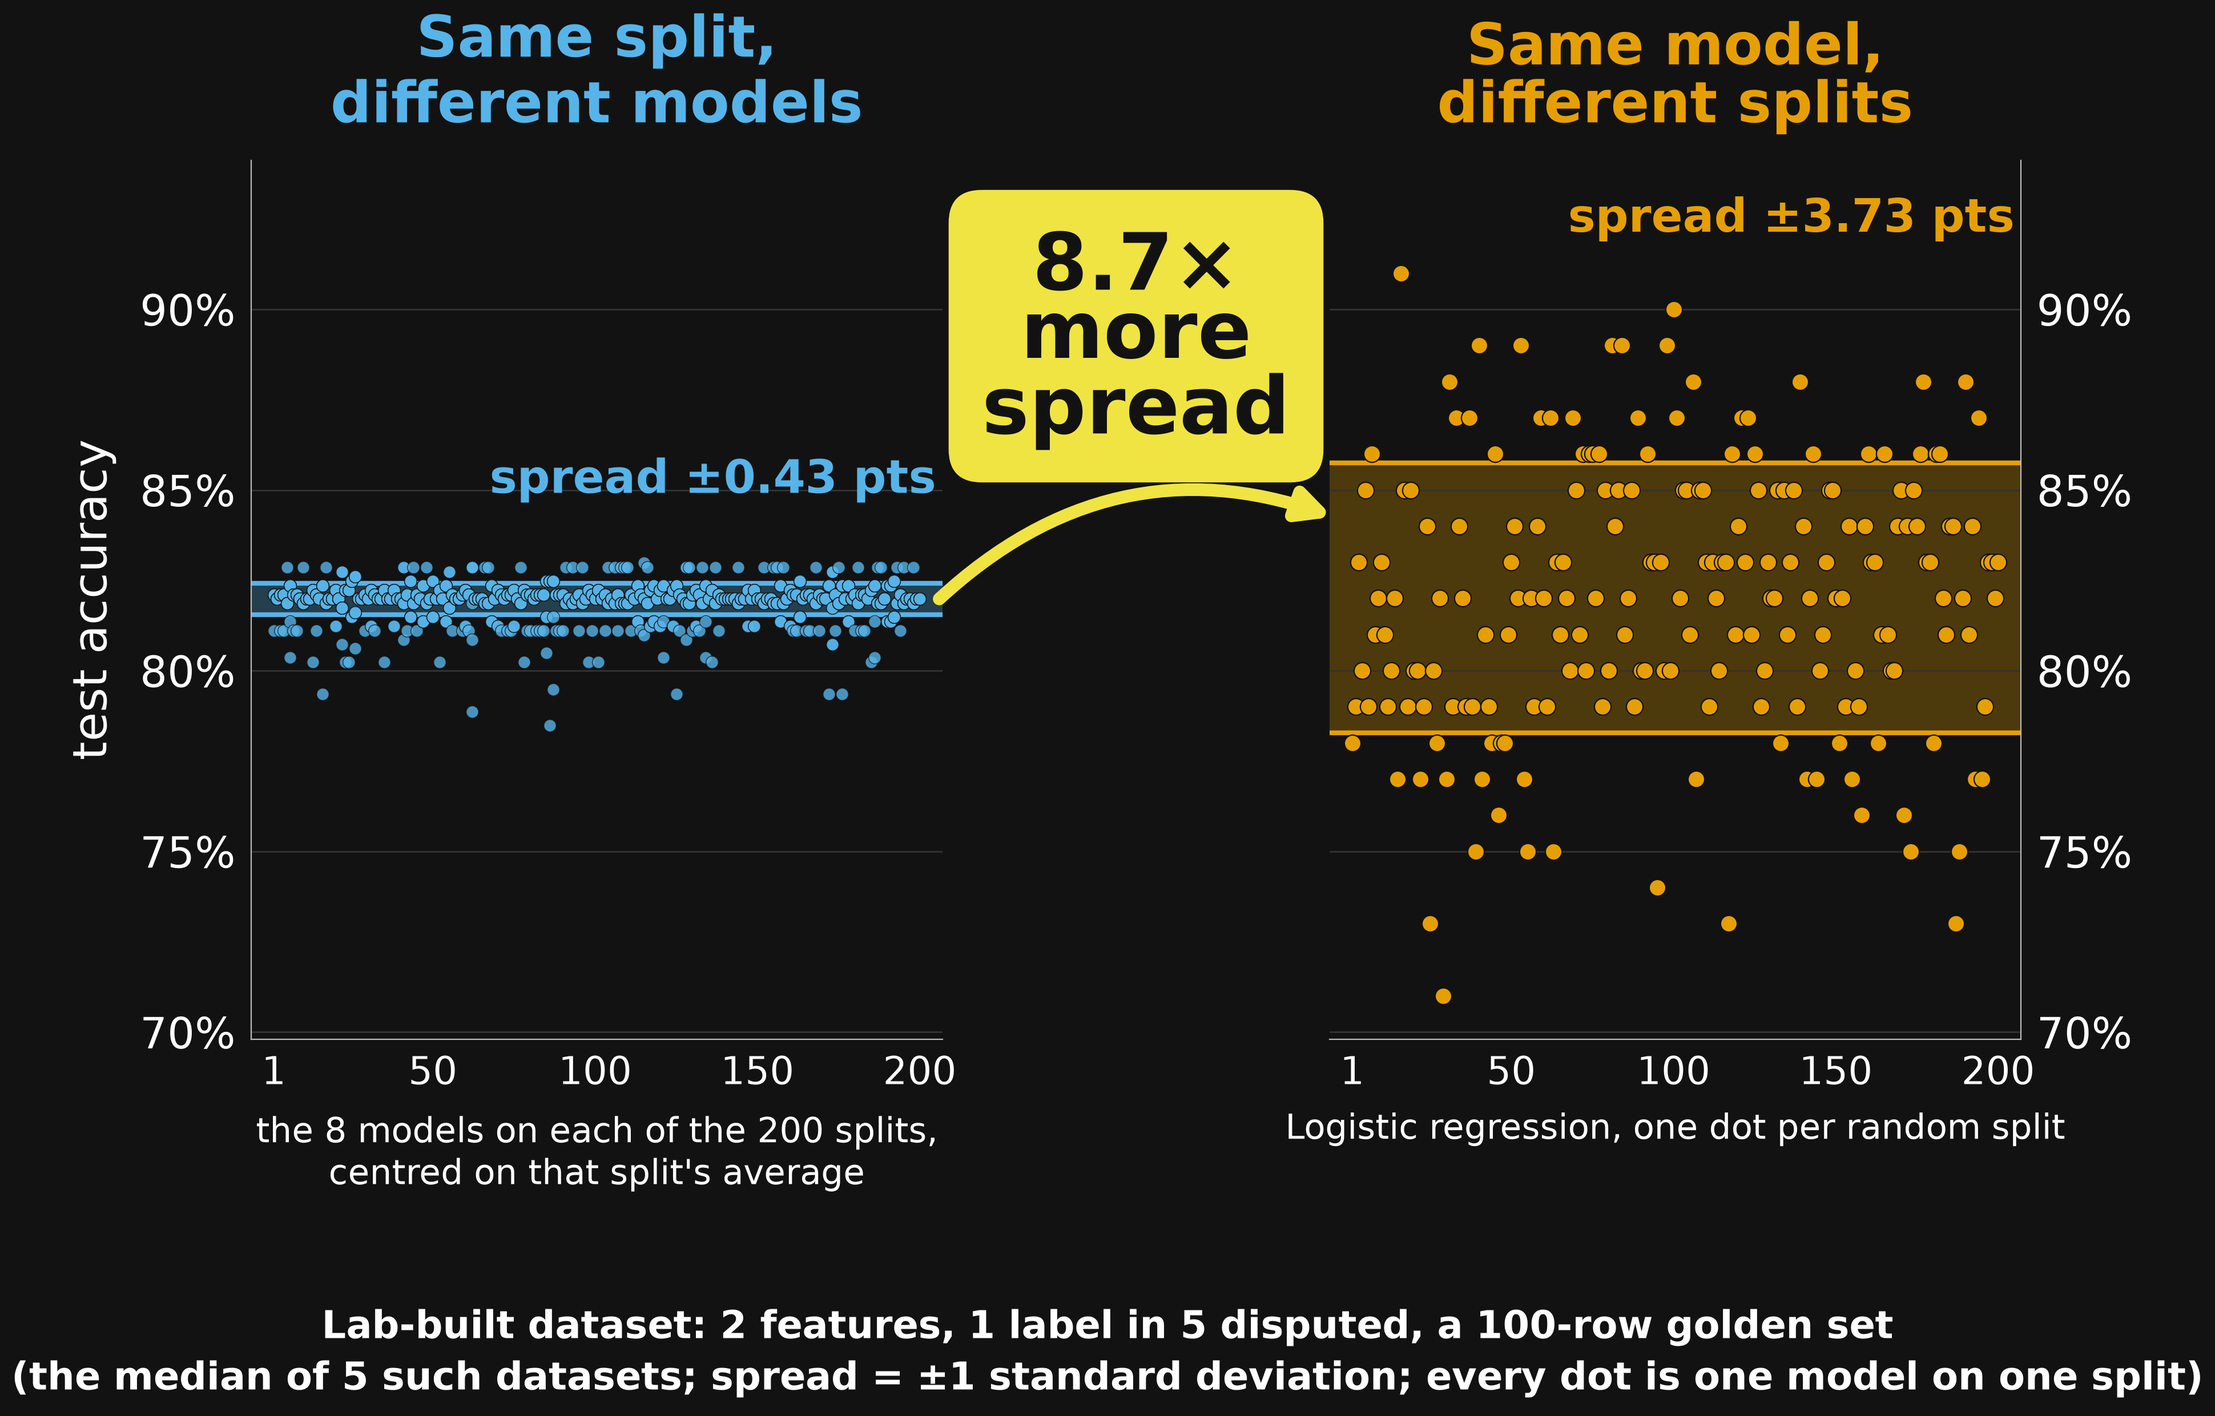
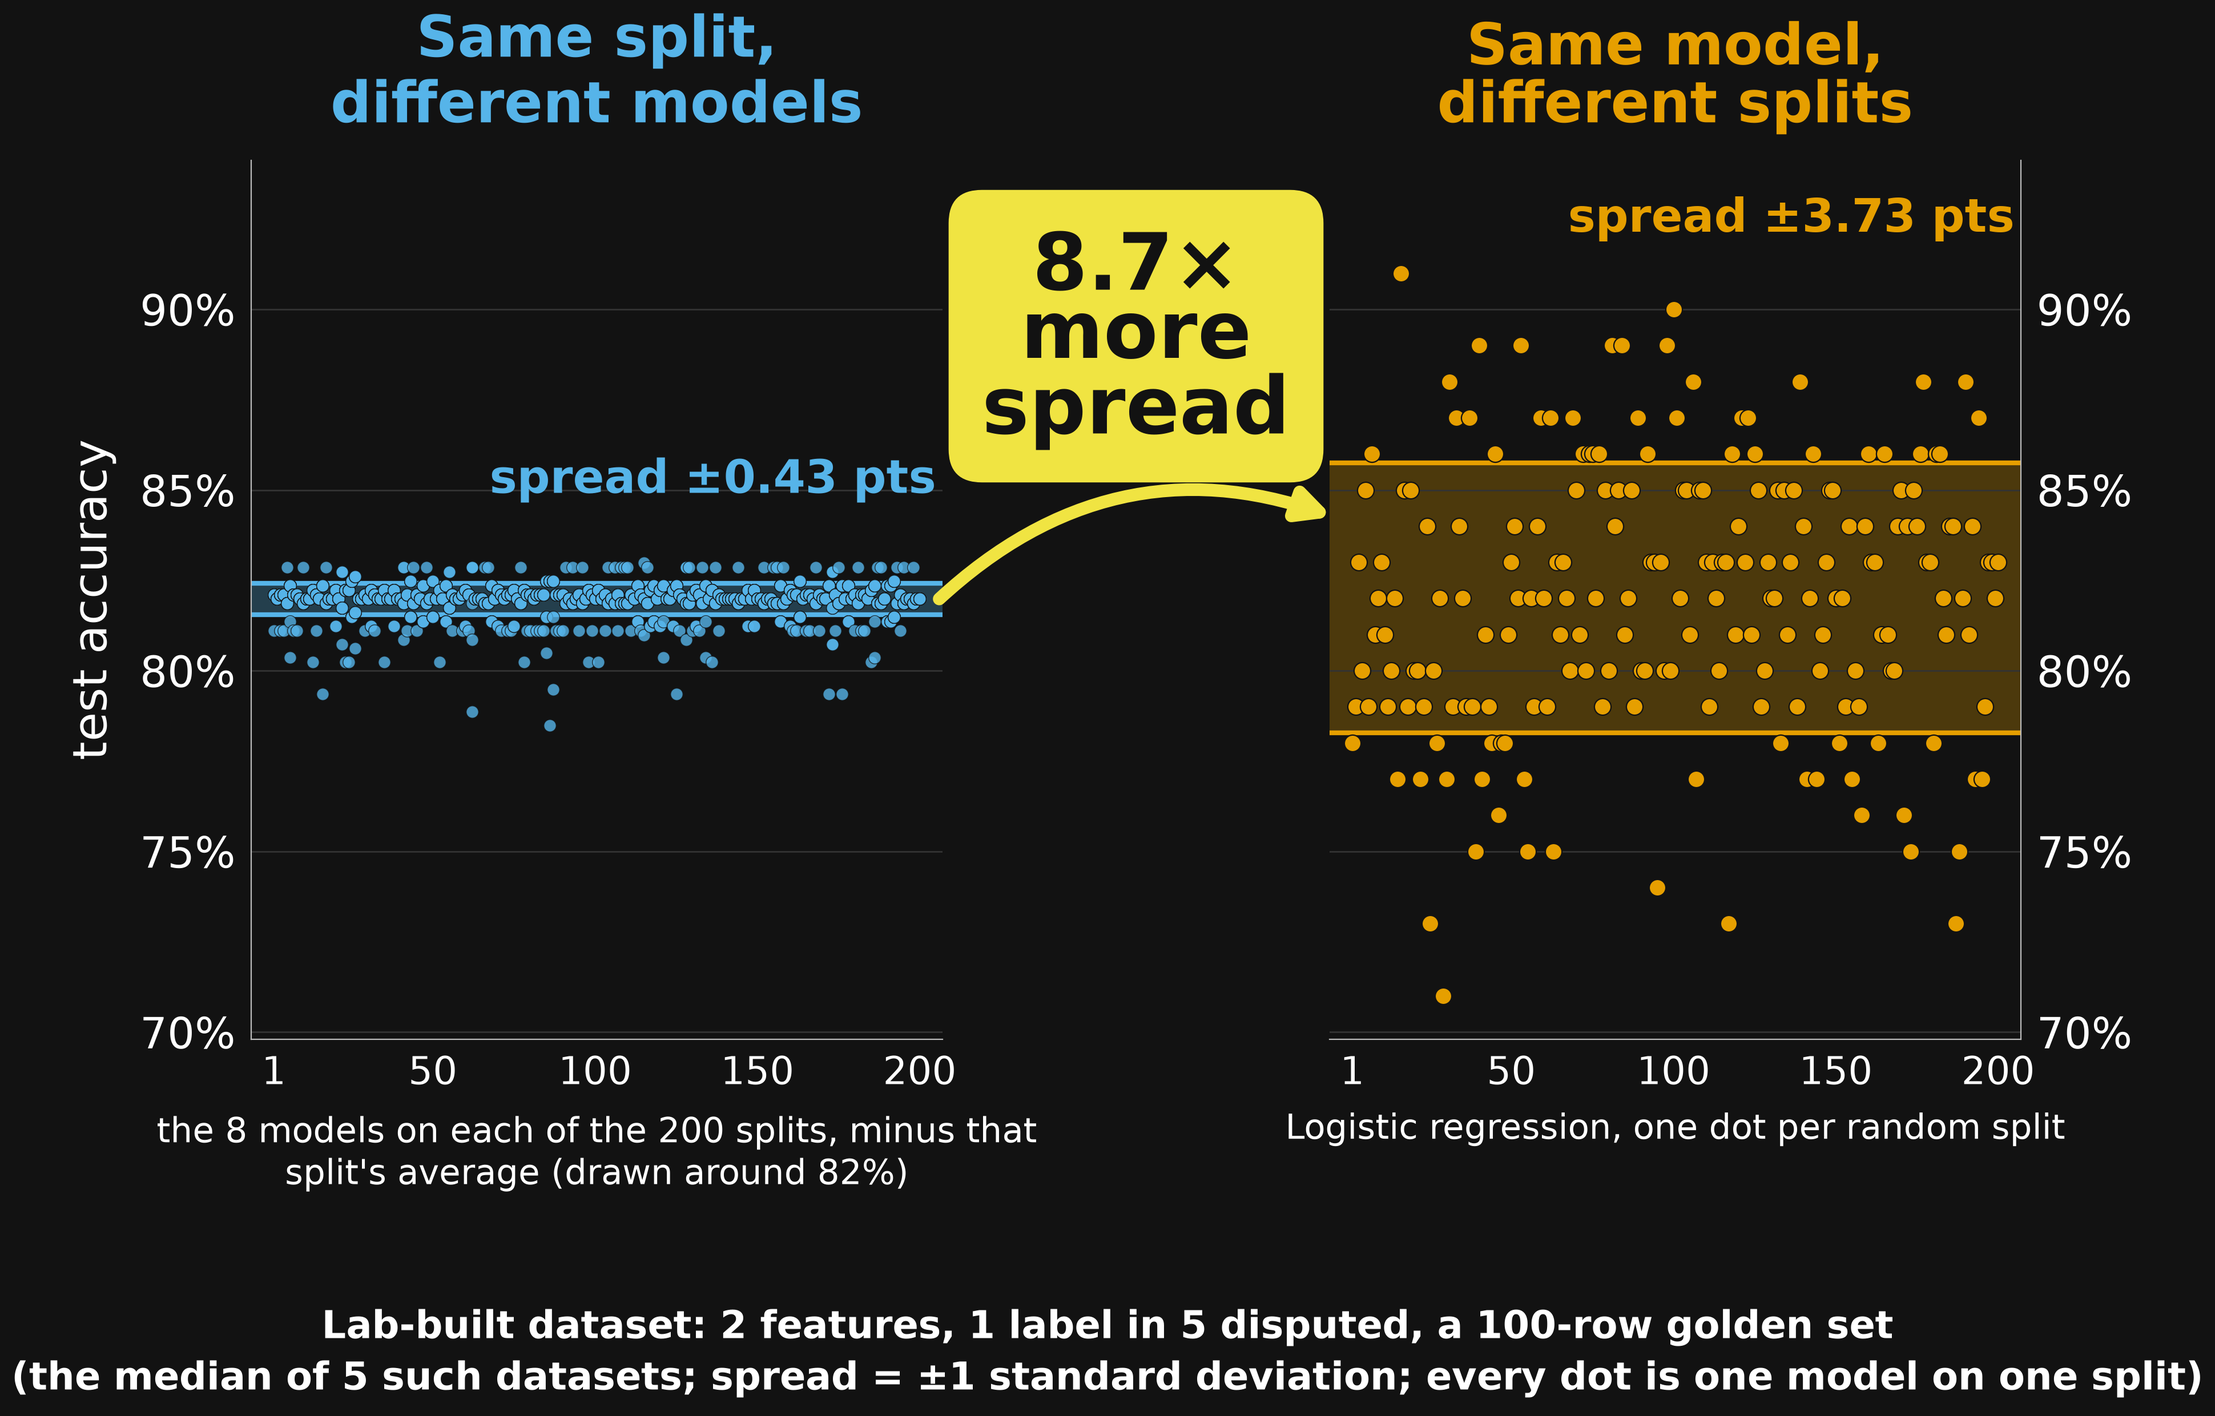
Report the strict, like-for-like wobble ratio everywhere
- e9_views section 6: the strict ratio (models compared on the same split)
  next to the registered ratio R, for the designs, the real data and the dials
- Dials figure plots the strict ratio; results/e8_dials.txt keeps R
- e1_minimal prints the strict ratio (0.86 on the opening subsample)
- e10: the rule-of-thumb verdict reads "too close to call", not "tie"
- Figure polish: e7a tie label in the tie colour, larger e2 legends with
  headroom, clearer hero axis label; no overlapping text
- PREREGISTRATION note on the switch (registered R unchanged and still printed)

Changed region(s): [[0.0624, 0.7759, 0.4678, 0.838]]

diff --git a/experiments/e8_tailored.py b/experiments/e8_tailored.py
@@ -212,6 +212,12 @@ def extras(cells, n_data, split_seeds):
     print(f"Falsifier (largest median R < 5): {'TRIGGERED' if top < 5 else 'not triggered'}")
 
 
+def strict_R(acc):
+    """Like-for-like wobble ratio (descriptive, added 2026-11-06): one model's swing across splits (mean std, as in R)
+    over how far apart the models land on the SAME split (root-mean-square over splits of the std across models)."""
+    return acc.std(axis=0, ddof=1).mean() / np.sqrt(np.mean(acc.var(axis=1, ddof=1)))
+
+
 def dial_R(dcells, i, nd):
     return np.median([seeds_vs_zoo(dcells[i, j][0])[2] for j in range(nd)])
 
@@ -358,7 +364,7 @@ def plot_hero_same_split(acc, path, design=""):
         ax.set_xlim(-6, n + 7)
     axl.scatter(np.repeat(xs, a.shape[1]), centred.ravel(), s=60, color=sky, edgecolor=BG, linewidth=0.5,
                 alpha=0.8, zorder=4)
-    axl.set_xlabel(f"the 8 models on each of the {n} splits,\ncentred on that split's average", fontsize=22, labelpad=12)
+    axl.set_xlabel(f"the 8 models on each of the {n} splits, minus that\nsplit's average (drawn around {a.mean():.0f}%)", fontsize=22, labelpad=12)
     axr.scatter(xs, runs, s=110, color=orange, edgecolor=BG, linewidth=0.8, zorder=4)
     axr.set_xlabel(f"{HERO_MODEL}, one dot per random split", fontsize=22, labelpad=12)
     axr.yaxis.tick_right()
@@ -398,9 +404,11 @@ def plot_dials(dcells, nd, path):
     from experiments.common import OKABE_ITO, dark_style
     plt = dark_style()
     fig, axes = plt.subplots(3, 1, figsize=(12, 19), sharey=True, gridspec_kw={"hspace": 0.68})  # one column: readable on a phone
-    R = lambda i: dial_R(dcells, i, nd)  # noqa: E731
-    span = lambda idx: ([min(seeds_vs_zoo(dcells[i, j][0])[2] for j in range(nd)) for i in idx],  # noqa: E731
-                        [max(seeds_vs_zoo(dcells[i, j][0])[2] for j in range(nd)) for i in idx])
+    # Since 2026-11-06 the figure shows the strict, like-for-like ratio (models compared on the same split);
+    # the registered ratio on averages (dial_R) is still printed in results/e8_dials.txt.
+    R = lambda i: np.median([strict_R(dcells[i, j][0]) for j in range(nd)])  # noqa: E731
+    span = lambda idx: ([min(strict_R(dcells[i, j][0]) for j in range(nd)) for i in idx],  # noqa: E731
+                        [max(strict_R(dcells[i, j][0]) for j in range(nd)) for i in idx])
     sky, verm = OKABE_ITO["sky"], OKABE_ITO["vermillion"]
     style = dict(lw=4.5, ms=14, marker="o")
     ax = axes[0]
@@ -454,7 +462,7 @@ def plot_dials(dcells, nd, path):
                 fontsize=22, fontweight="bold")
         ax.text(0.02, 0.05, "model wins (below 1)", transform=ax.transAxes, va="bottom", fontsize=22,
                 fontweight="bold")
-    fig.text(0.5, -0.012, "Wobble ratio = how far one model swings across splits ÷ how far apart the models' averages are.\n"
+    fig.text(0.5, -0.012, "Wobble ratio = how far one model swings across splits ÷ how far apart the models land on the same split.\n"
              "Lines: median of 3 datasets per setting; bands: their min to max.", ha="center", va="top", fontsize=20)
     os.makedirs(os.path.dirname(path) or ".", exist_ok=True)
     fig.savefig(path, dpi=200, bbox_inches="tight")

diff --git a/experiments/e9_views.py b/experiments/e9_views.py
@@ -275,6 +275,30 @@ def run(out, img=None, quick=False):
             all_vals.append(m.ravel())
         total = np.var(np.concatenate(all_vals))
         print(f"share of all the movement that sits inside one (model, split) cell, i.e. the same model on the same split with a different seed: {np.mean(cells) / total:.1%}")
+
+        print("\n== 6. The strict (like-for-like) wobble ratio everywhere: one model's swing across splits / how far apart the models land on the SAME split ==")
+        print("(The registered ratio R divides by the spread of the models' 200-split averages instead; it is always at least as large. Both are listed.)")
+        strict = lambda m: m.std(axis=0, ddof=1).mean() / np.sqrt(np.mean(m.var(axis=1, ddof=1)))  # noqa: E731
+        for name in DESIGN_TEST_ROWS:
+            s = [strict(main[name, j]) for j in range(n_data)]
+            print(f"{name:<43} strict median {np.median(s):.1f} (min {min(s):.1f}, max {max(s):.1f}); registered R median {np.median([R_of(main[name, j]) for j in range(n_data)]):.1f}")
+        print(f"hero dataset: strict {strict(hero):.1f}, registered R {R_of(hero):.1f}")
+        e1 = pd.read_csv(os.path.join(out, "e1_split.csv"))
+        cells_e1 = {}
+        for key, g in e1.groupby(["dataset", "n", "subsample"], sort=False):
+            order = g.split_seed.drop_duplicates()
+            cells_e1[key] = g.pivot(index="split_seed", columns="model", values="accuracy").reindex(order).to_numpy()
+        s150 = [strict(cells_e1["breast_cancer", 150, j]) for j in range(5)]
+        print("breast cancer, 150 rows, the 5 draws: strict " + ", ".join(f"{v:.2f}" for v in s150)
+              + f" (median {np.median(s150):.2f}); registered R " + ", ".join(f"{R_of(cells_e1['breast_cancer', 150, j]):.2f}" for j in range(5)))
+        for ds in ("breast_cancer", "synthetic"):
+            for n in sorted({k[1] for k in cells_e1 if k[0] == ds}):
+                s = [strict(cells_e1[k]) for k in cells_e1 if k[0] == ds and k[1] == n]
+                r = [R_of(cells_e1[k]) for k in cells_e1 if k[0] == ds and k[1] == n]
+                print(f"{ds:<13} n={n:<5} strict median {np.median(s):.2f} (min {min(s):.2f}, max {max(s):.2f}); registered R median {np.median(r):.2f}")
+        for dial, setting in dict.fromkeys((d_, s_) for (d_, s_, _) in dials):
+            s = [strict(dials[dial, setting, j]) for j in range(nd)]
+            print(f"{dial}: {setting:<34} strict median {np.median(s):.2f} (min {min(s):.2f}, max {max(s):.2f}); registered R median {np.median([R_of(dials[dial, setting, j]) for j in range(nd)]):.2f}")
     if img:
         plot_pairing(same, diff, os.path.join(img, "e9a_same_vs_different.png"),
                      label="Lab-built dataset: a 100-row golden set where 1 label in 5 is disputed (the hero's dataset, 200 splits).\n"

diff --git a/experiments/e2_imbalance.py b/experiments/e2_imbalance.py
@@ -126,8 +126,8 @@ def figure(df, stats, img):
     a1.set_ylabel("number of split seeds")
     a1.set_title(f"n = {n:,}: stratifying barely changes the spread")
     a1.set_xlim(0, max(0.8, d.recall.max() + 0.1))
-    a1.set_ylim(0, a1.get_ylim()[1] * 1.18)                                    # headroom so the legend never sits on a bar
-    a1.legend(loc="upper right", fontsize=9)
+    a1.set_ylim(0, a1.get_ylim()[1] * 1.45)                                    # headroom so the legend never sits on a bar
+    a1.legend(loc="upper right", fontsize=13)
 
     marks = {400: "o", 1000: "s", 4000: "D"}
     cols = {400: OKABE_ITO["purple"], 1000: OKABE_ITO["yellow"], 4000: OKABE_ITO["green"]}   # not the left panel's orange / sky
@@ -148,7 +148,7 @@ def figure(df, stats, img):
     a2.set_xlabel("positives in the test set, k (log scale)")
     a2.set_ylabel("std of recall across splits")
     a2.set_title("More positives, not stratification, shrink the noise")
-    a2.legend(fontsize=9, loc="upper right")
+    a2.legend(fontsize=13, loc="upper right")
     fig.tight_layout()
     fig.text(0.5, -0.01, "Right panel: hollow markers = unstratified runs grouped by k; filled = stratified; "
              "dashed lines = the wobble that counting alone predicts.", ha="center", va="top", fontsize=11, color="#BBBBBB")

diff --git a/experiments/e7_router.py b/experiments/e7_router.py
@@ -235,8 +235,11 @@ def figures(out, img):
         ax.axvline(0, color="#FFFFFF", lw=1.0, ls=":")
         wrong, tie = np.mean(diff < 0), np.mean(diff == 0)
         ax.set_title(title, fontsize=17, fontweight="bold", loc="left")
-        ax.text(0.02, 0.95, f"worse ahead {100 * wrong:.1f}%\ntie {100 * tie:.1f}%", transform=ax.transAxes,
+        ax.text(0.02, 0.95, f"worse ahead {100 * wrong:.1f}%", transform=ax.transAxes,
                 va="top", ha="left", fontsize=15, color=OKABE_ITO["orange"], fontweight="bold",
+                bbox=dict(boxstyle="square,pad=0.2", fc=BG, ec="none"), zorder=5)
+        ax.text(0.02, 0.80, f"tie {100 * tie:.1f}%", transform=ax.transAxes,      # in the tie bars' grey
+                va="top", ha="left", fontsize=15, color=colors[1], fontweight="bold",
                 bbox=dict(boxstyle="square,pad=0.2", fc=BG, ec="none"), zorder=5)
         ax.set_yticks([])
         ax.grid(axis="y", visible=False)

diff --git a/experiments/e1_minimal.py b/experiments/e1_minimal.py
@@ -50,7 +50,7 @@ def opening_scene(n_rows=150, n_splits=200):
     for name, a in zip(MODELS, acc.T):
         print(f"{name:<13} mean {a.mean():.3f}  std {a.std(ddof=1):.3f}  min {a.min():.3f}  max {a.max():.3f}")
     swing = acc.std(axis=0, ddof=1).mean()                      # how far one model moves across splits
-    gap = acc.mean(axis=0).std(ddof=1)                          # how far apart the models' averages sit
+    gap = np.sqrt(np.mean(acc.var(axis=1, ddof=1)))             # how far apart the models land on the same split
     best, second = np.argsort(acc.mean(axis=0))[::-1][:2]
     print(f"wobble ratio {swing / gap:.2f}; the second-best model wins on {np.mean(acc[:, second] > acc[:, best]):.1%} "
           f"of splits and ties on {np.mean(acc[:, second] == acc[:, best]):.1%}")

diff --git a/experiments/e10_mcnemar.py b/experiments/e10_mcnemar.py
@@ -21,7 +21,7 @@ def compare(a_right, b_right):
     b_only = int(np.sum(~a_right & b_right))                    # B right, A wrong
     d = a_only + b_only                                         # the disagreements
     p = binomtest(a_only, d, 0.5).pvalue if d else 1.0          # exact McNemar test
-    verdict = "tie" if abs(a_only - b_only) < 2 * np.sqrt(d) else "real gap"   # the rule of thumb
+    verdict = "too close to call" if abs(a_only - b_only) < 2 * np.sqrt(d) else "real gap"   # the rule of thumb
     return a_only, b_only, p, verdict
 # --- end ---
 

diff --git a/PREREGISTRATION.md b/PREREGISTRATION.md
@@ -219,4 +219,4 @@ Predictions:
 
 **E9 descriptive views (NOT pre-registered, appended 2026-11-06 while revising the article for plainer language).** `experiments/e9_views.py` reads the saved E1, E5 and E8 CSVs, with no refitting. Its five sections were all chosen after seeing the results (the last two added the same day, after independent review v6 and v7): (1) who finishes first on each split; (2) how much of the seed swing the size of the test set alone predicts, √(a(1−a)/n) (observed 0.72 to 0.99 of the prediction across settings; 3.86 vs 3.94 pts on the hero dataset); (3) how much noise is removed by scoring two models on the same split, pooled over the 28 model pairs of the hero dataset: the gap's spread is 0.59 pts on the same split and 5.57 pts across different splits (9.4×), and the worse model looks better on 6.4% vs 46.0% of comparisons; on the real 150-row data the ratio is 1.3×; the "different splits" pairing shifts each model's splits by one place, and over all 199 possible shifts the ratio averages 8.9× and the worse model looks better on 45.4% (section 3b); (4) the tie rule for two models scored on the same test set: among d disagreements the lead is a fair-coin count with a typical size of √d, so a lead under 2√d is a tie (15 disagreements on 300 rows: a lead of 7 or fewer); (5) a re-reading of the E5 random-forest and gradient-boosting grid: changing only the split swings a score by 3.29 and 3.47 pts, changing only the model's own seed on one fixed split by 2.40 and 2.42 pts, and 33.4% of all the movement sits inside one (model, split) cell. This corrects the article's earlier wording that the model's own seed was "a rounding error": the 0.4% main effect of a seed number hides the seed-by-split interaction (`results/e9_views.txt`, `images/e9a_same_vs_different.png`).
 
-**Presentation and descriptive additions (NOT pre-registered, appended 2026-11-06, third review round).** (a) The article's hero is now the like-for-like view of the same E8 hero dataset: on each split, the 8 models' scores centred on that split's average (spread 0.43 pts, the per-split spread from `results/e8_descriptive.txt`) against logistic regression across splits (3.73 pts): 8.7×. The pre-registered metric R (one model's swing over the spread of the models' 200-split averages: 30.8 for this design, 30.9 for logistic regression) is unchanged and still reported; the earlier hero is kept as `images/e8a_averages_vs_runs.png`. No refit; `experiments/e8_tailored.py --redraw`. (b) `experiments/e1_minimal.py` is the article's opening scene as one self-contained script (same seeds, data and models as E1's first subsample at n = 150); it reproduces E1's printed numbers exactly (`results/e1_minimal.txt`). (c) `experiments/e10_mcnemar.py` applies the "count the disagreements" check (exact McNemar test next to the 2√d rule of thumb) to 1,000 random 300-query golden sets drawn from the E7 router test queries; the rule and the exact test agree on 96.7% of golden sets (`results/e10_mcnemar.txt`).
+**Presentation and descriptive additions (NOT pre-registered, appended 2026-11-06, third review round).** (a) The article's hero is now the like-for-like view of the same E8 hero dataset: on each split, the 8 models' scores centred on that split's average (spread 0.43 pts, the per-split spread from `results/e8_descriptive.txt`) against logistic regression across splits (3.73 pts): 8.7×. The pre-registered metric R (one model's swing over the spread of the models' 200-split averages: 30.8 for this design, 30.9 for logistic regression) is unchanged and still reported; the earlier hero is kept as `images/e8a_averages_vs_runs.png`. No refit; `experiments/e8_tailored.py --redraw`. (b) `experiments/e1_minimal.py` is the article's opening scene as one self-contained script (same seeds, data and models as E1's first subsample at n = 150); it reproduces E1's printed numbers exactly (`results/e1_minimal.txt`). (c) `experiments/e10_mcnemar.py` applies the "count the disagreements" check (exact McNemar test next to the 2√d rule of thumb) to 1,000 random 300-query golden sets drawn from the E7 router test queries; the rule and the exact test agree on 96.7% of golden sets (`results/e10_mcnemar.txt`). (d) From the same round on, the article reports the strict, like-for-like wobble ratio everywhere (one model's swing over the spread of the models on the same split), for the designs, the real data and the dials, with the registered R named once; both are printed side by side in `results/e9_views.txt` section 6, and the strict ratio is always the smaller (real data at n = 150: median 1.22 strict against 2.42 registered). The dials figure now plots the strict ratio; `results/e8_dials.txt` keeps the registered one. `experiments/e1_minimal.py` prints the strict ratio (0.86 on the opening subsample).
